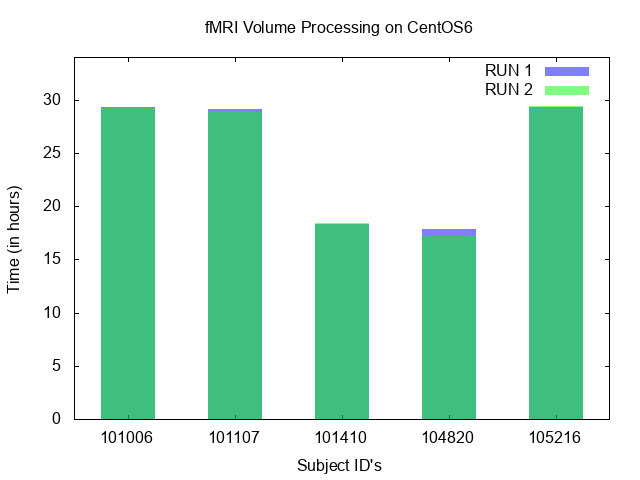
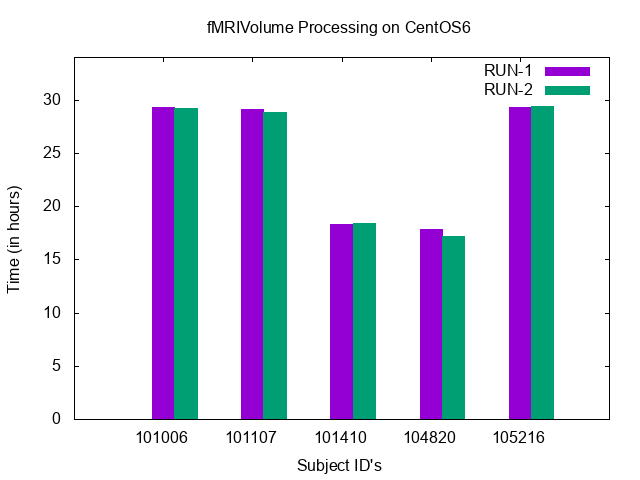
Updated graphs chapter 4

diff --git a/chapters/chapter4/chapter4.tex b/chapters/chapter4/chapter4.tex
@@ -188,303 +188,69 @@ The data was processed in the order PreFreeSurfer, FreeSurfer, PostFreeSurfer an
 Two runs were made on CentOS6 and CentOS7. Tables \ref{tab:prefreesurfer_processing_centos7} and \ref{tab:prefreesurfer_processing_centos6} shows the details about processing subjects on CentOS7 and CentOS6 respectively.
 
 \subsection{PreFreeSurfer}
-\centering
+
+\begin{center}
 \includegraphics[width=.5\linewidth]{prefreesurfer_run_CentOS6.png}%
 \includegraphics[width=.5\linewidth]{prefreesurfer_run_CentOS7.png}
-\captionof{figure}{PreFreeSurfer processing on CentOS6 and CentOS7}
+\captionof{figure}{PreFreeSurfer processing time on (i) CentOS6 (left) (ii)CentOS7 (right)}
 \label{fig:prefreesurfer_run}
-
-\begin{center}
-\tabulinesep=1.2mm
-  \begin{tabu} to \textwidth { | X[l] | X[l] | X[l] |}
-  \hline
-    Subject ID & Run no. & Size \\
-  \hline
-    101006 & RUN-1 & 15 GB \\
-  \hline
-    101107 & RUN-1 & 15 GB \\
-  \hline
-    101410 & RUN-1 & 9.8 GB \\
-  \hline
-    104820 & RUN-1 & 8.6 GB \\
-  \hline
-    105216 & RUN-1 & 17 GB \\
-  \hline
-    101006 & RUN-2 & 15 GB \\
-  \hline
-    101107 & RUN-2 & 15 GB \\
-  \hline
-    101410 & RUN-2 & 9.8 GB \\
-  \hline
-    104820 & RUN-2 & 8.6 GB \\
-  \hline
-    105216 & RUN-2 & 17 GB \\
-  \hline
-\end{tabu}
-\captionof{table}{HCP Subject Size after PreFreeSurfer Processing on CentOS6}
-\label{tab:hcp_subject_size}
 \end{center}
 
-\iffalse
-\subsection{PreFreeSurfer}
 \begin{center}
-\tabulinesep=1.2mm
-\begin{tabu} to \textwidth { | X[l] | X[l] | X[l] | }
-  \hline
-  Subject & Run no. & Time \\
-  \hline
-  101006 & RUN-1  & 0h and 56min \\
-  \hline
-  101107 & RUN-1  & 1h and 16min \\
-  \hline
-  101410 & RUN-1  & 1h and 27min \\
-  \hline
-  104820 & RUN-1  & 1h and 16min \\
-  \hline
-  105216 & RUN-1  & 1h and 36min \\
-  \hline
-  101006 & RUN-2  & 1h and 28min \\
-  \hline
-  101107 & RUN-2  & 1h and 26min \\
-  \hline
-  101410 & RUN-2  & 1h and 18min \\
-  \hline
-  104820 & RUN-2  & 1h and 10min \\
-  \hline
-  105216 & RUN-2  & 1h and 29min \\
-  \hline
-\end{tabu}
-\captionof{table}{PreFreeSurfer Processing Details on CentOS7}
-\label{tab:prefreesurfer_processing_centos7}
+\includegraphics[width=.5\linewidth]{prefreesurfer_CentOS6_filesize.png}%
+  \includegraphics[width=.5\linewidth]{prefreesurfer_CentOS7_filesize.png}
+\captionof{figure}{PreFreeSurfer processing file-size on (i) CentOS6 (left) (ii) CentOS7 (right)}
+\label{fig:prefreesurfer_file_size}
 \end{center}
-\fi
 
-\iffalse
-\begin{center}
-\tabulinesep=1.2mm
-\begin{tabu} to \textwidth { | X[l] | X[l] | X[l] | }
-  \hline
-  Subject & Run no. & Time \\
-  \hline
-  101006 & RUN-1  & 1h and 17min \\
-  \hline
-  101107 & RUN-1  & 1h and 19min \\
-  \hline
-  101410 & RUN-1  & 1h and 09min \\
-  \hline
-  104820 & RUN-1  & 1h and 00min \\
-  \hline
-  105216 & RUN-1  & 1h and 17min \\
-  \hline
-  101006 & RUN-2  & 1h and 18min \\
-  \hline
-  101107 & RUN-2  & 1h and 16min \\
-  \hline
-  101410 & RUN-2  & 1h and 12min \\
-  \hline
-  104820 & RUN-2  & 0h and 58 min \\
-  \hline
-  105216 & RUN-2  & 1h and 31min \\
-  \hline
-\end{tabu}
-\captionof{table}{PreFreeSurfer Processing Details on CentOS6}
-\label{tab:prefreesurfer_processing_centos6}
-\end{center}
-\fi
 %Prefreesurfer average timings to be calculated
 
 \subsection{FreeSurfer}
 
 \begin{center}
-\tabulinesep=1.2mm
-\begin{tabu} to \textwidth { | X[l] | X[l] | X[l] | }
-  \hline
-  Subject & Run no. & Time \\
-  \hline
-  101006 & RUN-1  & 07h and 17min \\
-  \hline
-  101107 & RUN-1  & 06h and 56min \\
-  \hline
-  101410 & RUN-1  & 08h and 32min \\
-  \hline
-  104820 & RUN-1  & 06h and 20min \\
-  \hline
-  105216 & RUN-1  & 08h and 31min \\
-  \hline
-  101006 & RUN-2  & 06h and 52min \\
-  \hline
-  101107 & RUN-2  & 07h and 01min \\
-  \hline
-  101410 & RUN-2  & 09h and 14min \\
-  \hline
-  104820 & RUN-2  & 07h and 34min \\
-  \hline
-  105216 & RUN-2  & 07h and 40min \\
-  \hline
-\end{tabu}
-\captionof{table}{FreeSurfer Processing Details on CentOS7}
-\label{tab:freesurfer_processing_centos7}
+\includegraphics[width=.5\linewidth]{freesurfer_run_CentOS6.png}%
+\includegraphics[width=.5\linewidth]{freesurfer_run_CentOS7.png}
+\captionof{figure}{FreeSurfer processing time on (i) CentOS6 (left) (ii)CentOS7 (right)}
 \end{center}
 
 \begin{center}
-\tabulinesep=1.2mm
-\begin{tabu} to \textwidth { | X[l] | X[l] | X[l] | }
-  \hline
-  Subject & Run no. & Time \\
-  \hline
-  101006 & RUN-1 & 06h and 15min \\
-  \hline
-  101107 & RUN-1 & 06h and 46min \\
-  \hline
-  101410 & RUN-1 & 08h and 11min \\
-  \hline
-  104820 & RUN-1 & 06h and 13min \\
-  \hline
-  105216 & RUN-1 & 10h and 03min \\
-  \hline
-  101006 & RUN-2 & 05h and 46min \\
-  \hline
-  101107 & RUN-2 & 07h and 18min \\
-  \hline
-  101410 & RUN-2 & 08h and 06min \\
-  \hline
-  104820 & RUN-2 & 06h and 21min \\
-  \hline
-  105216 & RUN-2 & 09h and 12min \\
-  \hline
-\end{tabu}
-\captionof{table}{FreeSurfer Processing Details on CentOS6}
-\label{tab:freesurfer_processing_centos6}
+\includegraphics[width=.5\linewidth]{freesurfer_CentOS6_filesize.png}%
+\includegraphics[width=.5\linewidth]{freesurfer_CentOS7_filesize.png}
+\captionof{figure}{FreeSurfer processing file-size on (i) CentOS6 (left) (ii) CentOS7 (right)}
+\label{fig:freesurfer_file_size}
 \end{center}
 
 \subsection{PostFreeSurfer}
 
 \begin{center}
-\tabulinesep=1.2mm
-\begin{tabu} to \textwidth { | X[l] | X[l] | X[l] | } 
-  \hline
-  Subject & Run no. & Time \\
-  \hline
-  101006 & RUN-1 & 24min \\
-  \hline
-  101107 & RUN-1 & 20min \\
-  \hline
-  101410 & RUN-1 & 23min \\
-  \hline
-  104820 & RUN-1 & 19min \\
-  \hline
-  105216 & RUN-1 & 29min \\
-  \hline
-  101006 & RUN-2 & 21min \\
-  \hline
-  101107 & RUN-2 & 24min \\
-  \hline
-  101410 & RUN-2 & 22min \\
-  \hline
-  104820 & RUN-2 & 21min \\
-  \hline
-  105216 & RUN-2 & 22min \\
-  \hline
-\end{tabu}
-\captionof{table}{PostFreeSurfer Processing Details on CentOS6}
-\label{tab:postfreesurfer_processing_centos6}
+\includegraphics[width=.5\linewidth]{postfreesurfer_run_CentOS6.png}%
+\includegraphics[width=.5\linewidth]{postfreesurfer_run_CentOS7.png}
+\captionof{figure}{PostFreeSurfer processing time on (i) CentOS6 (left) (ii)CentOS7 (right)}
+\label{fig:postfreesurfer_run}
 \end{center}
 
 \begin{center}
-\tabulinesep=1.2mm
-\begin{tabu} to \textwidth { | X[l] | X[l] | X[l] | }
-  \hline
-  Subject & Run no. & Time \\
-  \hline
-  101006 & RUN-1 & 31min \\
-  \hline
-  101107 & RUN-1 & 31min \\
-  \hline
-  101410 & RUN-1 & 28min \\
-  \hline
-  104820 & RUN-1 & 29min \\
-  \hline
-  105216 & RUN-1 & 32min \\
-  \hline
-  101006 & RUN-2 & 28min \\
-  \hline
-  101107 & RUN-2 & 22min \\
-  \hline
-  101410 & RUN-2 & 28min \\
-  \hline
-  104820 & RUN-2 & 26min \\
-  \hline
-  105216 & RUN-2 & 28min \\
-  \hline
-\end{tabu}
-\captionof{table}{PostFreeSurfer Processing Details on CentOS7}
-\label{tab:postfreesurfer_processing_centos7}
+\includegraphics[width=.5\linewidth]{postfreesurfer_CentOS6_filesize.png}%
+\includegraphics[width=.5\linewidth]{postfreesurfer_CentOS7_filesize.png}
+\captionof{figure}{PostFreeSurfer processing file-size on (i) CentOS6 (left) (ii) CentOS7 (right)}
+\label{fig:postfreesurfer_file_size}
 \end{center}
 
 \subsection{fMRIVolume}
 
 \begin{center}
-\tabulinesep=1.2mm
-\begin{tabu} to \textwidth { | X[l] | X[l] | X[l] | }
-  \hline
-  Subject & Run no. & Time \\
-  \hline
-  101006 & RUN-1 & 1 day 5 hours 17 min \\
-  \hline
-  101107 & RUN-1 & 1 day 5 hours 07 min\\
-  \hline
-  101410 & RUN-1 & 18 hours 20 min \\
-  \hline
-  104820 & RUN-1 & 17 hours 53 min \\
-  \hline
-  105216 & RUN-1 & 1 day 5 hours 19 min \\
-  \hline
-  101006 & RUN-2 & 1 day 5 hours 07 min \\
-  \hline
-  101107 & RUN-2 & 1 day 4 hours 49 min \\
-  \hline
-  101410 & RUN-2 & 18 hours 26 min \\
-  \hline
-  104820 & RUN-2 & 17 hours 10 min \\
-  \hline
-  105216 & RUN-2 & 1 day 5 hours 24 min\\
-  \hline
-\end{tabu}
-\captionof{table}{fMRIVolume Processing Details on CentOS6}
-\label{tab:fMRIVolume_processing_centos6}
+\includegraphics[width=.5\linewidth]{fmri_run_CentOS6.png}%
+\includegraphics[width=.5\linewidth]{fmri_run_CentOS7.png}
+\captionof{figure}{fMRIVolume processing time on (i) CentOS6 (left) (ii)CentOS7 (right)}
+\label{fig:fmri_run}
 \end{center}
 
 \begin{center}
-\tabulinesep=1.2mm
-\begin{tabu} to \textwidth { | X[l] | X[l] | X[l] | }
-  \hline
-  Subject & Run no. & Time \\
-  \hline
-  101006 & RUN-1 & 1 day 4 hours 18 min \\
-  \hline
-  101107 & RUN-1 & 1 day 4 hours 22 min\\
-  \hline
-  101410 & RUN-1 & 17 hours 46 min \\
-  \hline
-  104820 & RUN-1 & 17 hours 08 min \\
-  \hline
-  105216 & RUN-1 & 1 day 5 hours 7 min \\
-  \hline
-  101006 & RUN-2 & 1 day 3 hours 39 min \\
-  \hline
-  101107 & RUN-2 & 1 day 3 hours 50 min  \\
-  \hline
-  101410 & RUN-2 & 17 hours 7 min  \\
-  \hline
-  104820 & RUN-2 & 1 day 4 hours 15 min \\
-  \hline
-  105216 & RUN-2 & 1 day 4 hours 54 min\\
-  \hline
-\end{tabu}
-\captionof{table}{fMRIVolume Processing Details on CentOS7}
-\label{tab:fMRIVolume_processing_centos7}
+\includegraphics[width=.5\linewidth]{fmri_CentOS6_filesize.png}%
+\includegraphics[width=.5\linewidth]{fmri_CentOS7_filesize.png}
+\captionof{figure}{fMRIVolume processing file-size on (i) CentOS6 (left) (ii) CentOS7 (right)}
+\label{fig:fmri_file_size}
 \end{center}
-
 %Add average time of all the processes
 
 \subsection{HCP Docker images}
